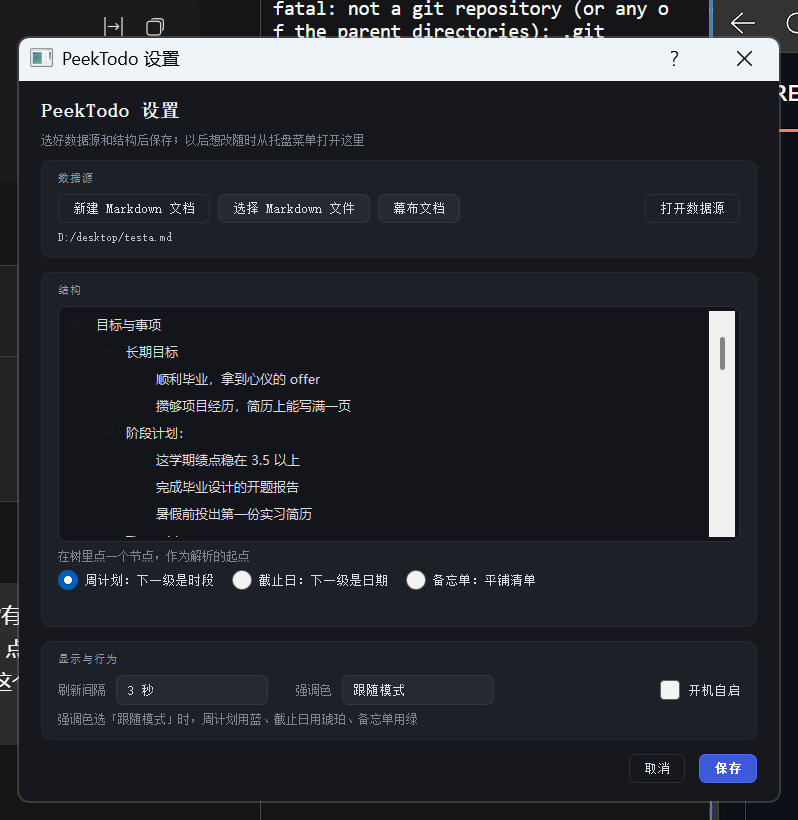
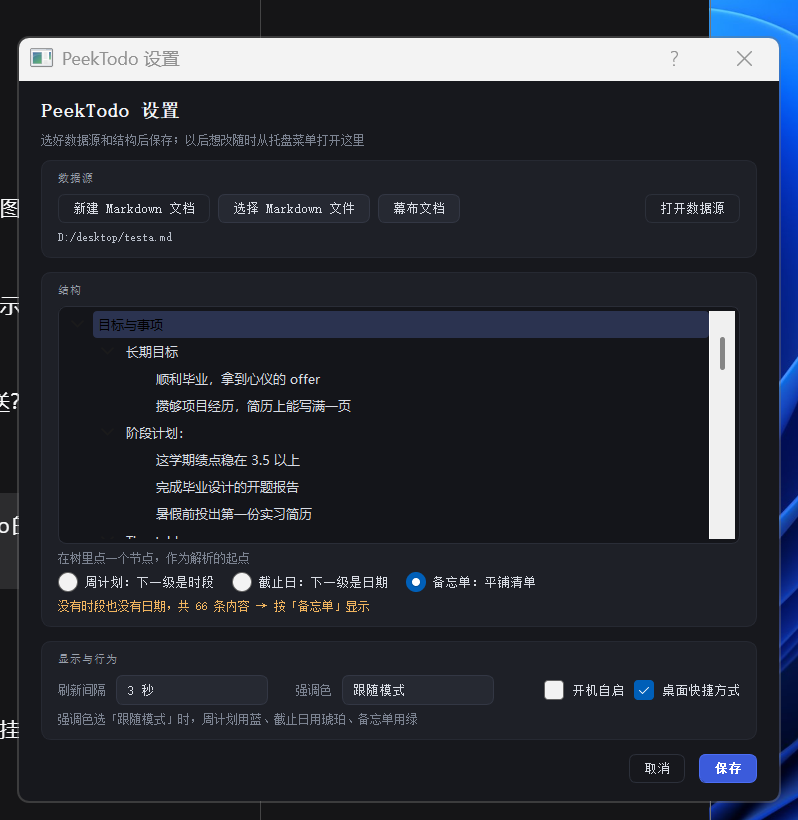
feat: 首次运行自动创建桌面快捷方式
- 新增 shortcut 模块：图标复制到 %LOCALAPPDATA%\PeekTodo 再建 lnk
  （.lnk 存绝对路径，ico 放在非系统盘时资源管理器不渲染）
- 桌面目录用 Shell.SpecialFolders 解析，支持桌面重定向
- 设置面板新增「桌面快捷方式」开关，默认开；取消勾选会删掉
- 附一个通用 PeekTodo.lnk（cmd.exe + PATH 里的 peektodo）和 tools\install_shortcut.ps1

diff --git a/peek_todo/shortcut.py b/peek_todo/shortcut.py
@@ -1,0 +1,93 @@
+"""桌面快捷方式：把图标放好，再建 .lnk。
+
+两个坑写在这里，免得再踩：
+  1. .lnk 里存的是绝对路径，所以目标必须是"每台机器都有的路径"
+     （pythonw.exe + -m peek_todo，或者打包后的 exe）。
+  2. 图标要先复制到 C: 盘用户目录——有些机器上资源管理器不渲染其它盘上的 .ico。
+"""
+
+from __future__ import annotations
+
+import os
+import sys
+from pathlib import Path
+
+SHORTCUT_NAME = "PeekTodo.lnk"
+
+
+def icon_path() -> Path:
+    """把包里的 app.ico 复制到 %LOCALAPPDATA%\\PeekTodo\\app.ico 并返回。"""
+    target_dir = Path(os.environ.get("LOCALAPPDATA", Path.home())) / "PeekTodo"
+    target_dir.mkdir(parents=True, exist_ok=True)
+    target = target_dir / "app.ico"
+    source = Path(__file__).resolve().parent / "assets" / "app.ico"
+    if source.exists():
+        try:
+            target.write_bytes(source.read_bytes())
+        except OSError:
+            return source
+    return target
+
+
+def desktop_path() -> Path:
+    """真实的桌面目录（可能被重定向到别的盘，比如 D:\\desktop）。"""
+    try:
+        from .win32 import preload
+
+        preload()
+        from win32com.client import Dispatch
+
+        folder = Dispatch("WScript.Shell").SpecialFolders("Desktop")
+        if folder:
+            return Path(folder) / SHORTCUT_NAME
+    except Exception:  # noqa: BLE001
+        pass
+    return Path(os.environ.get("USERPROFILE", Path.home())) / "Desktop" / SHORTCUT_NAME
+
+
+def _launch_command() -> tuple[str, str]:
+    """返回 (target, arguments)。"""
+    if getattr(sys, "frozen", False):
+        return sys.executable, ""
+
+    pythonw = Path(sys.executable).with_name("pythonw.exe")
+    exe = pythonw if pythonw.exists() else Path(sys.executable)
+    return str(exe), "-m peek_todo"
+
+
+def create(overwrite: bool = True) -> Path | None:
+    """在桌面创建快捷方式；失败返回 None（不影响主程序）。"""
+    link = desktop_path()
+    if link.exists() and not overwrite:
+        return link
+
+    target, args = _launch_command()
+    icon = icon_path()
+
+    try:
+        from .win32 import preload
+
+        preload()
+        from win32com.client import Dispatch
+
+        shell = Dispatch("WScript.Shell")
+        shortcut = shell.CreateShortcut(str(link))
+        shortcut.TargetPath = target
+        shortcut.Arguments = args
+        shortcut.WorkingDirectory = str(Path(__file__).resolve().parent.parent)
+        shortcut.IconLocation = f"{icon},0"
+        shortcut.Description = "PeekTodo - 贴右边缘滑出的待办面板"
+        shortcut.WindowStyle = 1
+        shortcut.Save()
+        return link
+    except Exception:  # noqa: BLE001 - 建不出来也不能影响启动
+        return None
+
+
+def remove() -> bool:
+    link = desktop_path()
+    try:
+        link.unlink()
+        return True
+    except OSError:
+        return False

diff --git a/peek_todo/ui/settings.py b/peek_todo/ui/settings.py
@@ -248,6 +248,9 @@ class SettingsDialog(QDialog):
         row1.addStretch(1)
         self.autostart_check = QCheckBox("开机自启")
         row1.addWidget(self.autostart_check)
+        self.shortcut_check = QCheckBox("桌面快捷方式")
+        self.shortcut_check.setToolTip("在桌面放一个带图标的入口")
+        row1.addWidget(self.shortcut_check)
         section.body.addLayout(row1)
 
         note = QLabel("强调色选「跟随模式」时，周计划用蓝、截止日用琥珀、备忘单用绿")
@@ -430,9 +433,12 @@ class SettingsDialog(QDialog):
         accent = self.accent_combo.findData(panel.get("accent", "auto"))
         self.accent_combo.setCurrentIndex(max(0, accent))
 
-        from .. import autostart
+        from .. import autostart, shortcut
 
         self.autostart_check.setChecked(bool(behavior.get("autostart")) or autostart.is_enabled())
+        self.shortcut_check.setChecked(
+            bool(behavior.get("desktopShortcut", True)) or shortcut.desktop_path().exists()
+        )
 
     def _save(self):
         if not self._source:
@@ -457,8 +463,12 @@ class SettingsDialog(QDialog):
             "vocabulary": {"weekdays": {}, "periods": {}},
             "periods": DEFAULT_PERIODS,
             "panel": {**DEFAULT_PANEL, "accent": accent},
-            "behavior": {**DEFAULT_BEHAVIOR, "refreshMs": refresh_ms,
-                         "autostart": self.autostart_check.isChecked()},
+            "behavior": {
+                **DEFAULT_BEHAVIOR,
+                "refreshMs": refresh_ms,
+                "autostart": self.autostart_check.isChecked(),
+                "desktopShortcut": self.shortcut_check.isChecked(),
+            },
         }
         self.accept()
 

diff --git a/peek_todo/app.py b/peek_todo/app.py
@@ -13,7 +13,7 @@ from PyQt5.QtCore import Qt, QTimer
 from PyQt5.QtGui import QCursor, QIcon
 from PyQt5.QtWidgets import QAction, QApplication, QMenu, QMessageBox, QSystemTrayIcon
 
-from . import autostart
+from . import autostart, shortcut
 from .config import Config, build_mapping, build_source
 from .doctor import main as doctor_main
 from .edge import EdgeDetector, Rect
@@ -327,6 +327,8 @@ def ensure_config(force: bool = False) -> Config | None:
         json.dumps(dialog.result_config, ensure_ascii=False, indent=2) + "\n", encoding="utf-8"
     )
     autostart.toggle(bool(dialog.result_config["behavior"].get("autostart")))
+    if dialog.result_config["behavior"].get("desktopShortcut", True):
+        shortcut.create()
     return Config.load(path)
 
 

diff --git a/peek_todo/config.py b/peek_todo/config.py
@@ -27,7 +27,7 @@ DEFAULT_PANEL = {
     "pollMs": 40,
 }
 
-DEFAULT_BEHAVIOR = {"refreshMs": 5000, "autostart": False}
+DEFAULT_BEHAVIOR = {"refreshMs": 5000, "autostart": False, "desktopShortcut": True}
 
 
 @dataclass
